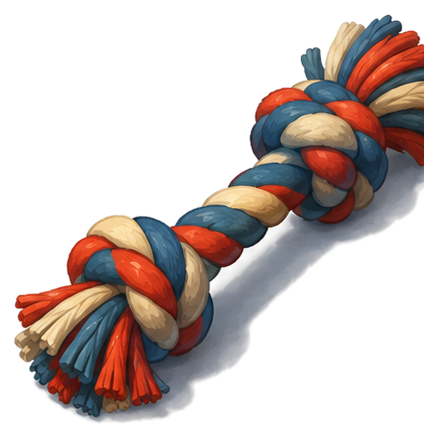
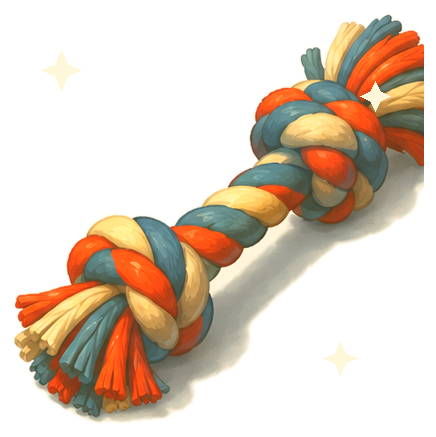
Give the completed tug rope its own visible payoff
BackyardRescueArtEnhancer swaps the rope overlay to RopeComplete when the tug
objective clears, but export_arena_final.py cropped rope_tug.png and
rope_complete.png from the identical box on props.png (it only has one rope
illustration) - the two files were byte-identical, so the celebratory prop
swap had zero visible effect.

Added tools/art/generate_rope_complete_variant.py, which derives a distinct
golden-tinted, sparkle-accented rope_complete.png from the exported
rope_tug.png. Removed the redundant crop from export_arena_final.py's export
table (with a comment pointing at the new script) so a future re-run can't
silently clobber the derived variant back into a duplicate.

Also traced the doc's other "duplicate" note (dog rescued/proud static pose
pngs) and confirmed it's not currently visible in practice: ApplyPose assigns
that fallback and immediately calls AnimateAuthoredMotion in the same call,
which overrides it with the real distinct directional Motion-frame art. Left
that one alone and recorded the finding in ARENA-PLAYABLE.md.

Covered by RopeTugAndRopeComplete_AreVisuallyDistinct (Texture2D content hash
comparison, since these sprites aren't CPU-readable). Full suite green at
461/461.

diff --git a/tools/art/generate_rope_complete_variant.py b/tools/art/generate_rope_complete_variant.py
@@ -1,0 +1,63 @@
+#!/usr/bin/env python3
+"""Derive a visually distinct "rope complete" sprite from the exported rope_tug sprite.
+
+`export_arena_final.py`'s EXPORTS table crops rope_tug.png and rope_complete.png from the
+identical box on the source sheet (there is only one rope illustration on props.png), so the
+two files were byte-identical: BackyardRescueArtEnhancer swaps the rope overlay to
+RopeComplete on tug clear, but the prop looked exactly the same before and after the payoff
+(docs/ARENA-PLAYABLE.md "Final polish still needed: rope tug/complete source poses").
+
+Run this after export_arena_final.py (it reads that script's rope_tug.png output). It does not
+touch the source sheet or the crop box; it only re-derives the complete variant with a golden
+success tint and a couple of sparkle accents, matching the existing success/gold VFX language
+(e.g. BackyardRescueArtEnhancer's TugTogether pop color).
+"""
+
+from __future__ import annotations
+
+from pathlib import Path
+
+from PIL import Image, ImageDraw, ImageEnhance
+
+ROOT = Path(__file__).resolve().parents[2]
[1 lines of base64/hex data omitted]
+SOURCE = PROP_DIR / "rope_tug.png"
+OUTPUT = PROP_DIR / "rope_complete.png"
+
+GOLD_TINT = (255, 214, 89)
+
+
+def sparkle(draw: ImageDraw.ImageDraw, cx: int, cy: int, size: int) -> None:
+    """A small 4-point sparkle, matching the success/celebration accents used elsewhere."""
+    draw.polygon(
+        [(cx, cy - size), (cx + size // 3, cy - size // 3), (cx + size, cy),
+         (cx + size // 3, cy + size // 3), (cx, cy + size), (cx - size // 3, cy + size // 3),
+         (cx - size, cy), (cx - size // 3, cy - size // 3)],
+        fill=(255, 246, 214, 235),
+    )
+
+
+def main() -> None:
+    with Image.open(SOURCE) as opened:
+        rope = opened.convert("RGBA")
+
+    alpha = rope.getchannel("A")
+    tinted = ImageEnhance.Color(rope.convert("RGB")).enhance(1.35)
+    tinted = ImageEnhance.Brightness(tinted).enhance(1.12)
+    gold = Image.new("RGB", rope.size, GOLD_TINT)
+    warmed = Image.blend(tinted, gold, 0.22)
+    warmed = warmed.convert("RGBA")
+    warmed.putalpha(alpha)
+
+    draw = ImageDraw.Draw(warmed)
+    width, height = warmed.size
+    sparkle(draw, round(width * 0.14), round(height * 0.16), 20)
+    sparkle(draw, round(width * 0.86), round(height * 0.22), 15)
+    sparkle(draw, round(width * 0.78), round(height * 0.82), 17)
+
+    warmed.save(OUTPUT, optimize=True)
+    print(f"Wrote {OUTPUT.relative_to(ROOT)}")
+
+
+if __name__ == "__main__":
+    main()

diff --git a/unity/CheddarAndCocoa/Assets/Tests/PlayMode/FinalArtIntegrationPlayModeTests.cs b/unity/CheddarAndCocoa/Assets/Tests/PlayMode/FinalArtIntegrationPlayModeTests.cs
@@ -132,6 +132,23 @@ namespace CheddarAndCocoa.Tests
         }
 
         [Test]
+        public void RopeTugAndRopeComplete_AreVisuallyDistinct()
+        {
+            // BackyardRescueArtEnhancer swaps the rope overlay from RopeToy to RopeComplete on tug
+            // clear (CompleteTug -> SetOverlaySprite(_ropeOverlay, RuntimeSpriteId.RopeComplete)). The
+            // export table crops both from the same box on props.png (only one rope illustration
+            // exists on that sheet), so they were byte-identical and the payoff had no visible prop
+            // change. generate_rope_complete_variant.py derives a distinct golden/sparkle variant.
+            Sprite tug = FinalGameplayArt.Load(FinalGameplayArt.RopeTug);
+            Sprite complete = FinalGameplayArt.Load(FinalGameplayArt.RopeComplete);
+            Assert.IsNotNull(tug);
+            Assert.IsNotNull(complete);
+            Assert.AreNotEqual(tug.texture.imageContentsHash, complete.texture.imageContentsHash,
+                "The rope must visibly change when the tug objective completes, not reuse the exact " +
+                "same sprite as the in-progress tug toy.");
+        }
+
+        [Test]
         public void FinalJuiceEffect_MapsGameplayFeedbackToDistinctReadableSprites()
         {
             Assert.AreEqual(FinalGameplayArt.PickupSparkle,

diff --git a/tools/art/export_arena_final.py b/tools/art/export_arena_final.py
@@ -61,7 +61,10 @@ EXPORTS = (
     # Mission props.
     Export("props.png", "Props/Mission/weenie_collectible.png", (20, 65, 550, 500)),
     Export("props.png", "Props/Mission/rope_tug.png", (0, 520, 440, 1045)),
-    Export("props.png", "Props/Mission/rope_complete.png", (0, 520, 440, 1045)),
+    # rope_complete.png is NOT exported here on purpose: props.png only has one rope illustration,
+    # so cropping the same box produced a byte-identical duplicate and the tug-complete payoff had
+    # no visible prop change. Run tools/art/generate_rope_complete_variant.py after this script to
+    # (re)derive a distinct golden/sparkle variant from the rope_tug.png this export just wrote.
     Export("props.png", "Props/Mission/dog_bowl.png", (720, 540, 1120, 1020)),
     # Backyard props: 4 x 3 sheet.
     Export("backyard props.png", "Props/Backyard/grass_patch.png", (0, 20, 470, 320)),

diff --git a/docs/ARENA-PLAYABLE.md b/docs/ARENA-PLAYABLE.md
@@ -300,7 +300,20 @@ Still placeholder or deliberately deferred:
 
 Final polish still needed:
 
-- Replace duplicate rescued/proud and rope tug/complete source poses when distinct art exists.
+- ~~Replace duplicate rescued/proud and rope tug/complete source poses when distinct art exists.~~
+  Investigated 2026-07-05: the rope pair was a real, currently-visible bug — `export_arena_final.py`
+  cropped the identical box for `rope_tug.png`/`rope_complete.png` (props.png only has one rope
+  illustration), so `BackyardRescueArtEnhancer.CompleteTug`'s overlay swap to `RopeComplete` on tug
+  clear had zero visual effect. Fixed via `tools/art/generate_rope_complete_variant.py`, which derives
+  a golden-tinted/sparkle variant from the exported `rope_tug.png`; the export script no longer
+  (re-)exports an identical `rope_complete.png`. Covered by
+  `RopeTugAndRopeComplete_AreVisuallyDistinct`. The dog rescued/proud pair is a genuine source-file
+  duplicate too (same crop box in the export table), but is **not** currently visible: `ApplyPose`
+  assigns that static single-image fallback and then immediately calls `AnimateAuthoredMotion` in the
+  same call, which overrides it with the real directional Motion-frame art — and distinct Motion art
+  for Rescued vs Proud already exists (`export_character_outcomes.py`, sourced from a real
+  `{dog}_outcomes_east_v01.png` sheet with four distinct clips). Left as-is; only worth revisiting if
+  that static fallback path is ever reached in a context that skips `AnimateAuthoredMotion`.
 - Replace generated motion-derived dog/threat frames with final animation-ready sprites and replace
   remaining generated environment districts.
 - Run a two-player television readability pass; the automated 1920x1080 local/full-yard/action
